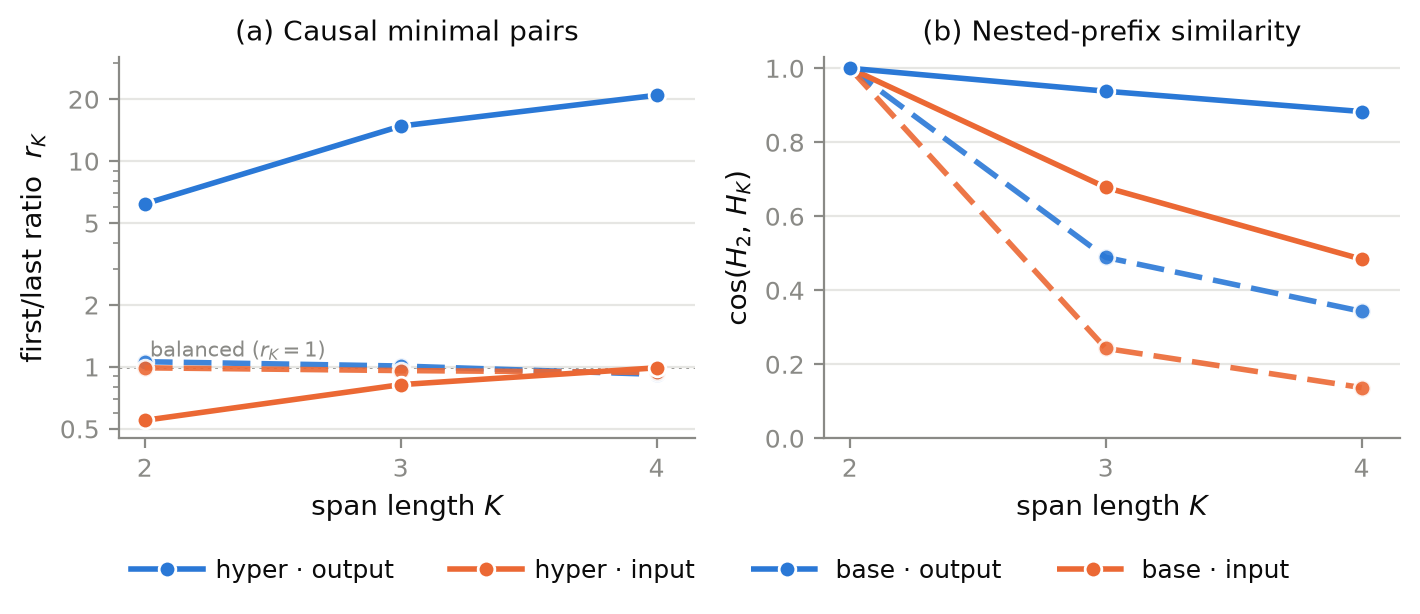
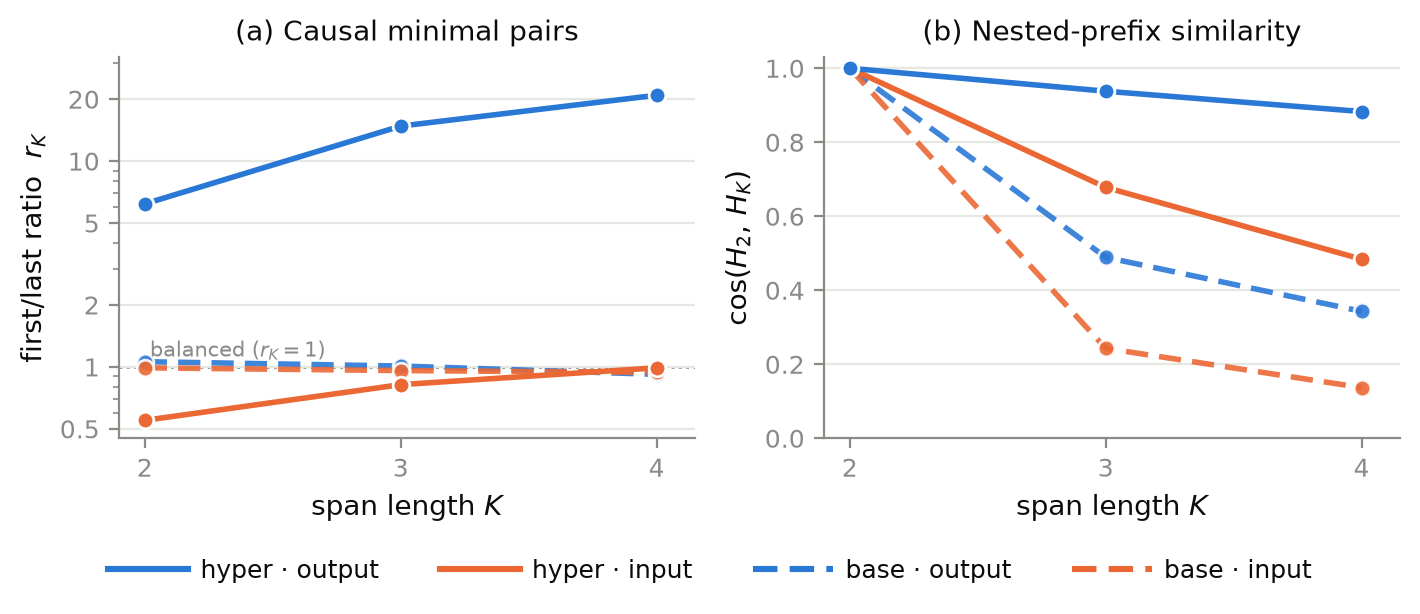
style(figures): clarify hyper and base line legends

diff --git a/make_paper_fig.py b/make_paper_fig.py
@@ -32,7 +32,7 @@ nested = {  # (b) cos(H2, H_K); K=2 is self-similarity = 1.0
     ("base",  "output"): [1.0, 0.489, 0.343], ("base",  "input"): [1.0, 0.243, 0.137],
 }
 COL = {"output": OUT, "input": INP}
-STY = {"hyper": "-", "base": (0, (5, 2))}   # base dash matches the legend exactly
+STY = {"hyper": "-", "base": (0, (4, 2))}   # base dash matches the legend exactly
 
 
 def plot(ax, data, order):
@@ -70,15 +70,16 @@ axb.set_xlim(1.9, 4.15)
 
 # shared legend: single row, hyper pair first then base pair.
 # solid = hyper, dashed = base; blue = output, orange = input.
+# Line-only handles (no marker) so solid-vs-dashed is unmistakable.
 handles = [
-    Line2D([], [], color=OUT, lw=2, ls="-",       marker="o", ms=6, mec="white", label="hyper $\\cdot$ output"),
-    Line2D([], [], color=INP, lw=2, ls="-",       marker="o", ms=6, mec="white", label="hyper $\\cdot$ input"),
-    Line2D([], [], color=OUT, lw=2, ls=(0, (5, 2)), marker="o", ms=6, mec="white", label="base $\\cdot$ output"),
-    Line2D([], [], color=INP, lw=2, ls=(0, (5, 2)), marker="o", ms=6, mec="white", label="base $\\cdot$ input"),
+    Line2D([], [], color=OUT, lw=2.2, ls="-",        label="hyper $\\cdot$ output"),
+    Line2D([], [], color=INP, lw=2.2, ls="-",        label="hyper $\\cdot$ input"),
+    Line2D([], [], color=OUT, lw=2.2, ls=(0, (4, 2)), label="base $\\cdot$ output"),
+    Line2D([], [], color=INP, lw=2.2, ls=(0, (4, 2)), label="base $\\cdot$ input"),
 ]
 fig.legend(handles=handles, loc="lower center", ncol=4, frameon=False,
-           fontsize=9, bbox_to_anchor=(0.5, -0.03), columnspacing=2.2,
-           handlelength=2.9, handletextpad=0.5)
+           fontsize=9, bbox_to_anchor=(0.5, -0.03), columnspacing=2.4,
+           handlelength=3.2, handletextpad=0.5)
 fig.tight_layout(rect=(0, 0.06, 1, 1))
 fig.savefig("/dlabscratch1/xinma/zip2zip-hyperenc_probe/paper_fig_untied.pdf", bbox_inches="tight")
 fig.savefig("/dlabscratch1/xinma/zip2zip-hyperenc_probe/paper_fig_untied.png", dpi=200, bbox_inches="tight")
